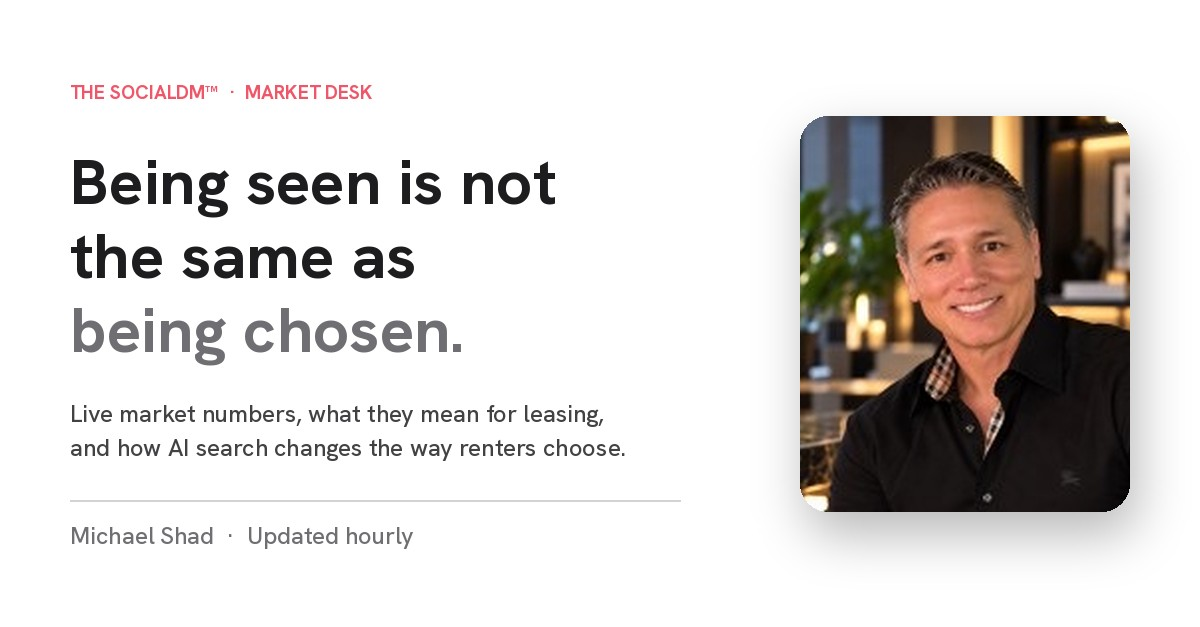
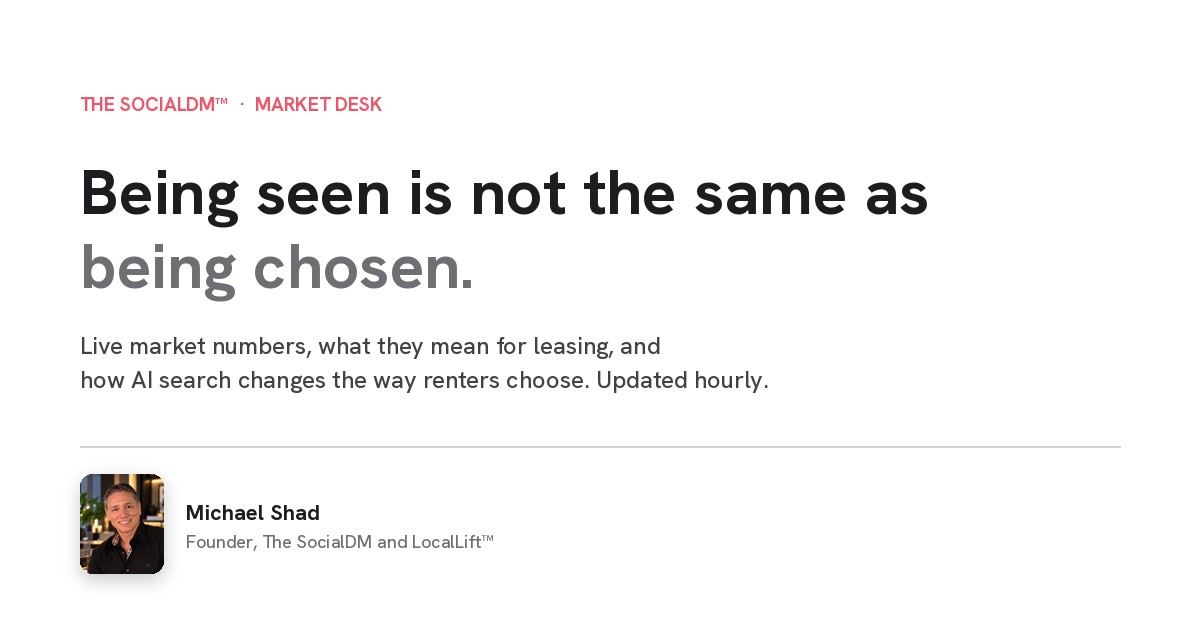
Michael preview: smaller portrait, byline style share image
Claude-Session: https://claude.ai/code/session_01APSB1hf2Mvpo5YChiyDr2h

Changed region(s): [[0.0617, 0.1818, 0.9558, 0.8788], [0.0617, 0.7576, 0.555, 0.9394], [0.0617, 0.1212, 0.3392, 0.1818]]

diff --git a/michael/index.html b/michael/index.html
@@ -30,8 +30,8 @@ a{color:inherit}
 .top .wrap{display:flex;justify-content:space-between;align-items:center;height:52px;font-size:13px;color:var(--mute)}
 .top b{color:var(--ink);font-weight:700}
 .hero{padding:80px 0 64px}
-.hgrid{display:grid;grid-template-columns:minmax(0,1fr) 300px;gap:64px;align-items:center}
-.pic{width:300px;height:360px;border-radius:24px;object-fit:cover;object-position:50% 30%;box-shadow:0 30px 60px rgba(0,0,0,.12)}
+.hgrid{display:grid;grid-template-columns:minmax(0,1fr) 168px;gap:56px;align-items:start}
+.pic{width:168px;height:200px;border-radius:16px;object-fit:cover;object-position:50% 30%;margin-top:34px;box-shadow:0 12px 30px rgba(0,0,0,.10)}
 .eyebrow{font-size:13px;font-weight:600;letter-spacing:.08em;text-transform:uppercase;color:var(--accent)}
 h1{font-size:clamp(42px,6.4vw,80px);line-height:1.03;margin:16px 0 0;font-weight:700;letter-spacing:-.035em;text-wrap:balance}
 h1 em{font-style:normal;color:var(--mute)}
@@ -82,7 +82,7 @@ section:not(.alt) .rd{background:var(--bg2)}
 footer{margin-top:0;border-top:1px solid var(--line);padding:28px 0 56px;font-size:13px;color:var(--mute);line-height:1.6}
 footer a{color:var(--soft)}
 @media(max-width:980px){.tiles{grid-template-columns:repeat(2,minmax(0,1fr))}.t:last-child{grid-column:1/-1}.brands{grid-template-columns:minmax(0,1fr)}.rdg{grid-template-columns:minmax(0,1fr)}}
-@media(max-width:820px){.hgrid{grid-template-columns:minmax(0,1fr);gap:28px}.pic{width:140px;height:168px;border-radius:18px;order:-1}}
+@media(max-width:820px){.hgrid{grid-template-columns:minmax(0,1fr);gap:28px}.pic{width:96px;height:114px;border-radius:12px;order:-1;margin-top:0}}
 @media(max-width:620px){.facts{grid-template-columns:minmax(0,1fr)}.list a{grid-template-columns:minmax(0,1fr);gap:6px}h2{font-size:36px}.lede{font-size:18px}.t{min-height:0;padding:18px 16px}.t .v{font-size:32px}.hero{padding-top:48px}}
 </style>
 </head>
@@ -96,7 +96,7 @@ footer a{color:var(--soft)}
 <h1 class="serif">Being seen is not the same as <em>being chosen.</em></h1>
 <p class="lede">The numbers that move apartment demand, what they mean for leasing and marketing, and how Google, Maps and AI assistants are changing the way renters choose. I help operators get found and chosen before the first tour.</p>
 <div class="sig">Michael Shad, founder of The SocialDM and LocalLift&#8482;</div>
-</div><img class="pic" src="/michael/img/michael-shad.jpg" alt="Michael Shad" width="240" height="240"></div>
+</div><img class="pic" src="/michael/img/michael-shad.jpg" alt="Michael Shad" width="168" height="200"></div>
 <div class="btns">
 <a class="btn solid" href="https://www.thesocialdm.com/contact">Get your visibility plan</a>
 <a class="btn" href="https://www.linkedin.com/in/michaelshad/">Follow on LinkedIn</a>
